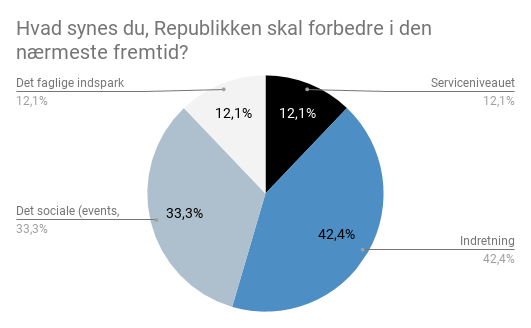
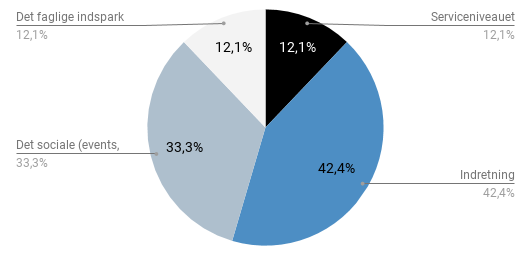
done

Changed region(s): [[0.0301, 0.0305, 0.9944, 0.9771], [0.6026, 0.6107, 0.6629, 0.6718]]

diff --git a/index.html b/index.html
@@ -50,9 +50,11 @@
                 <section id="ux">
                     <div class="timeline-img" id="video_bttn"></div>
 
-                    <div class="timeline-content js--fadeInLeft" id="video_card">
+                    <div class="timeline-content" id="video_card">
                         <div class="date">THE USER EXPERIENCE</div>
-                        <div id="video_pres"><p><iframe width="1080" height="600" src="https://www.youtube.com/embed/_am9epMfUd8" frameborder="0" gesture="media" allow="encrypted-media" allowfullscreen></iframe></p></div>
+                        <div id="video_pres">
+                            <p><iframe width="1080" height="600" src="https://www.youtube.com/embed/_am9epMfUd8" frameborder="0" gesture="media" allow="encrypted-media" allowfullscreen></iframe></p>
+                        </div>
                     </div>
                 </section>
             </div>
@@ -100,7 +102,7 @@
                 </div>
             </div>
 
-            <div class="timeline-item">
+            <div class="timeline-item" id="benefits_card">
 
                 <section id="benefits">
 
@@ -124,17 +126,27 @@
                     <div class="timeline-img"></div>
 
                     <div class="timeline-content timeline-card js--fadeInRight">
-                        <div class="timeline-img-header">
-                            <h2>Card Title</h2>
+                        <div class="timeline-img-header" id="chart_head">
+                            <img src="img/chart.png" class="img_chart">
                         </div>
                         <div class="date">NUMBERS DON'T LIE</div>
-                        <p>Lorem ipsum dolor sit amet, consectetur adipisicing elit. Maxime ipsa ratione omnis alias cupiditate saepe atque totam aperiam sed nulla voluptatem recusandae dolor, nostrum excepturi amet in dolores. Alias, ullam.</p>
-                        <a class="bnt-more" href="javascript:void(0)">More</a>
+                        <h2 id="chart_titel">"HVAD SYNES DU, REPUBLIKKEN SKAL FORBEDRE I DEN NÆRMESTE FREMTID?"</h2>
+                        <p>
+                            <b>"</b>1 ud af 3 efterspørger en forbedring indenfor det sociale.<b>"</b> <br>(events, samarbejde, aktiviteter, kommunikation etc.)</p>
+                        <p><b>Reach Out</b>
+                            <br>- skaber overblik over medlemmer
+                            <br>- styrker samarbejdet
+                            <br>- gør kommunikation og socialisering nemmere
+                            <br>- forhøjer tilliden blandt medlemmer
+                            <br>- gør det muligt at se interne nyheder, events og aktiviteter
+
+                        </p>
+                        <div id="chart_p"></div>
                     </div>
                 </section>
             </div>
 
-            <div class="timeline-item">
+            <div class="timeline-item" id="casper_card">
 
                 <div class="timeline-img"></div>
 
@@ -208,7 +220,9 @@
                         <a class="bnt-more" href="http://www.benjaminbonnichsen.dk/kea/republikken/dokumentationssite" target="_blank">SEE THE PROCESS HERE</a>
                     </div>
                 </section>
+                <div class="timeline-img" id="contact_btn"></div>
             </div>
+
             <section id="contact">
                 <div class="sectionwrapper">
                     <h1>PROJEKTMEDLEMMER</h1>
@@ -267,8 +281,6 @@
     <script src='https://cdn.jsdelivr.net/scrollreveal.js/3.3.1/scrollreveal.min.js'></script>
 
     <script src="js/index.js">
-
-
     </script>
 
 </body>

diff --git a/style.css b/style.css
@@ -14,29 +14,57 @@ body {
     background-color: rgba(61, 65, 71, 0.77);
 }
 
-#ux{
 
+.img_chart {
+    width: 100%;
+    height: 100%;
 }
-#video_bttn{
+
+#chart_head.timeline-img-header {
+    height: 250px;
+    position: relative;
+    margin-bottom: 20px;
+    margin-top: 50px;
+}
+
+#chart_titel{
+    font-size: 24px;
+    margin: 10px;
+}
+#chart_p{
+    margin-bottom: 30px;
+}
+#contact_btn {
+    margin-top: 120px;
+}
+
+#video_bttn {
     margin-top: -72px;
 }
-#video_card{
+
+#video_card {
     width: 1140px;
     height: 100%;
-   position: relative;
-    top:-30px;
+    position: relative;
+    top: -30px;
 }
 
-#video_pres{
+#video_pres {
     text-align: center;
     margin: 15px 0px 10px 0px;
 }
+
 #mock_up {
     margin-top: -350px;
 }
 
-#process_box{
+#process_box {
     margin-top: -250px;
+}
+
+#benefits_card{
+    margin-top: -220px;
+
 }
 #kasper {
     border-radius: 500px;
@@ -54,6 +82,9 @@ body {
     font-weight: 100;
 }
 
+#casper_card{
+    margin-top: -195px;
+}
 #casper {
     border-radius: 500px;
     width: 150px;
@@ -97,15 +128,15 @@ header p {
     color: rgba(255, 255, 255, 0.2);
     margin-bottom: 0;
     font-size: 60px;
-    z-index:20;
+    z-index: 20;
     margin-top: -30px;
     position: absolute;
-    z-index:20;
+    z-index: 20;
 }
 
 .timeline {
     position: relative;
-    z-index:20;
+    z-index: 20;
 }
 
 .timeline::before {
@@ -178,6 +209,7 @@ header p {
     display: none;
 
 }
+
 .timeline-img {
     width: 30px;
     height: 30px;
@@ -218,7 +250,7 @@ a:focus {
 .timeline-card p {
     padding: 0 20px;
     position: relative;
-    z-index:20;
+    z-index: 20;
 }
 
 .timeline-card a {
@@ -263,11 +295,12 @@ a:focus {
 
 }
 
+
 .img_head {
     width: 100%;
     height: 150%;
     opacity: 0.5;
-    z-index:1;
+    z-index: 1;
 }
 
 .timeline-img-header h2 {
@@ -275,7 +308,7 @@ a:focus {
     position: absolute;
     bottom: 5px;
     left: 20px;
-    z-index:20;
+    z-index: 20;
 }
 
 blockquote {
@@ -294,7 +327,7 @@ blockquote {
     position: absolute;
     top: 0;
     right: 0;
-    z-index:20;
+    z-index: 20;
 }
 
 @media screen and (max-width: 768px) {
